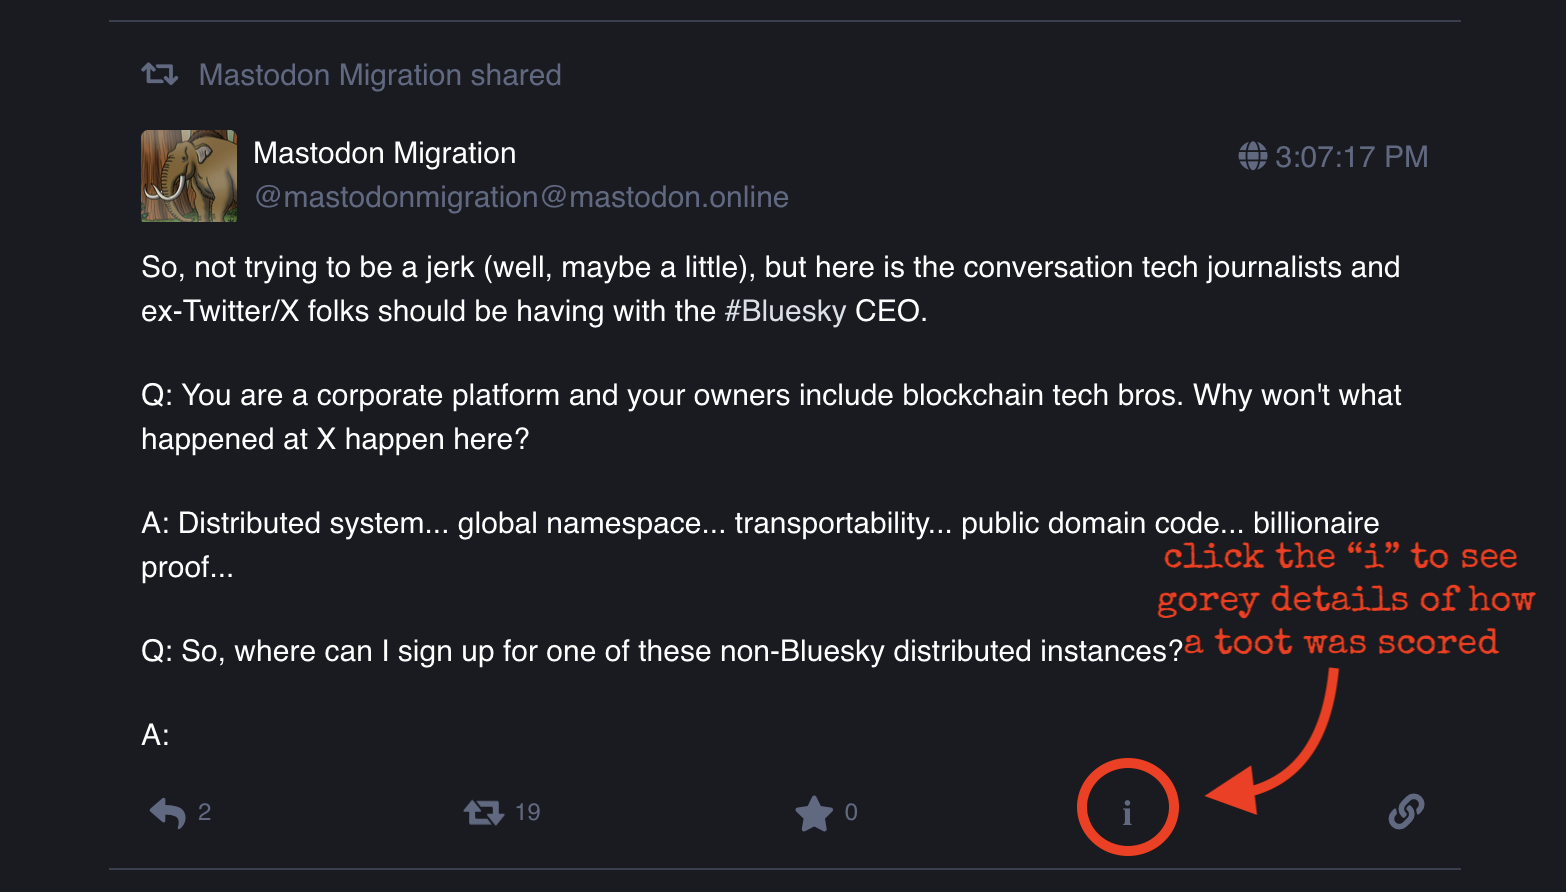
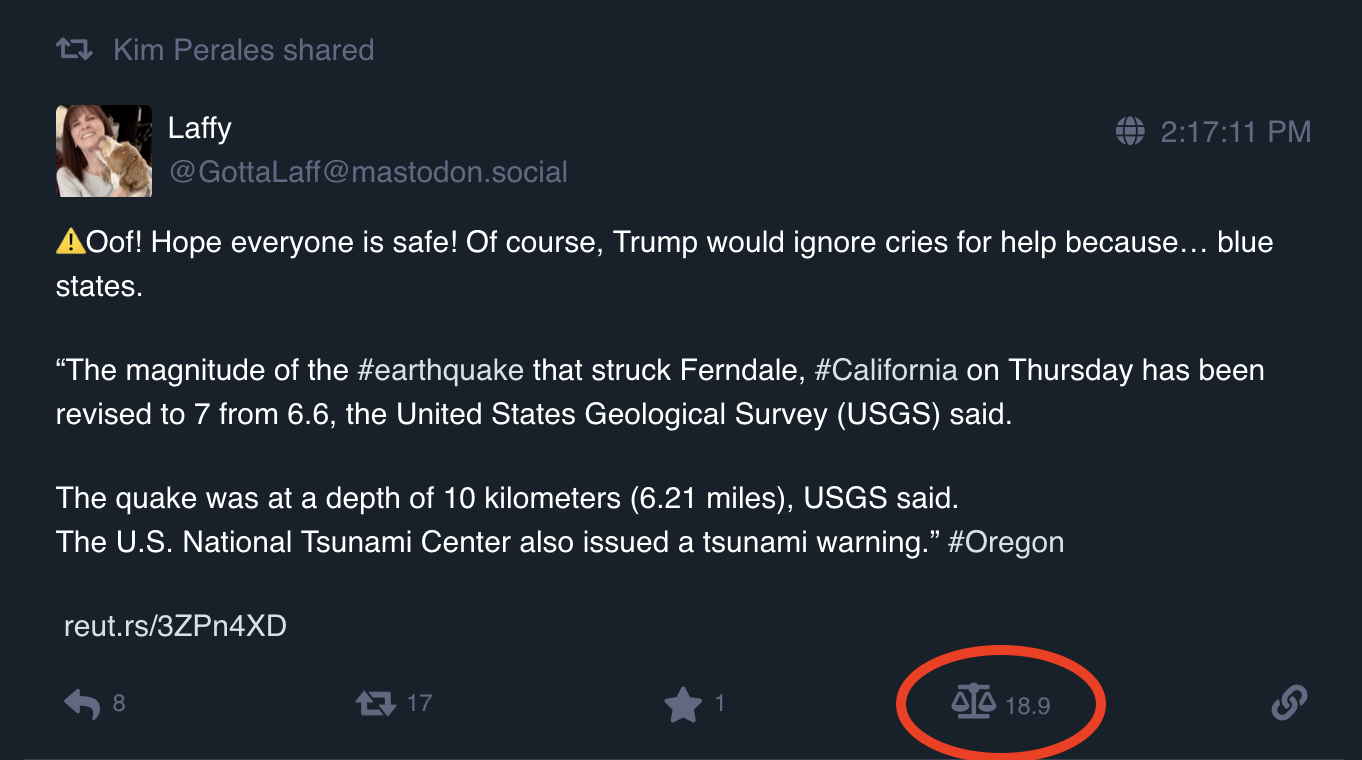
update readme

diff --git a/README.md b/README.md
@@ -65,7 +65,7 @@ You can filter based on hashtag, source (accounts you follow, hashtags you follo
 
 
 ## Investigating A Toot's Score
-Clicking the "i" in the GUI will bring up a popup that will show you the gorey details of how a toot measured up.
+Clicking the "⚖" in the GUI will bring up a popup that will show you the gorey details of how a toot measured up.
 
 <p align="center">
     <img src="doc/click_the_i_for_score_info.png" alt="click_the_i_for_score_info" width="600">
